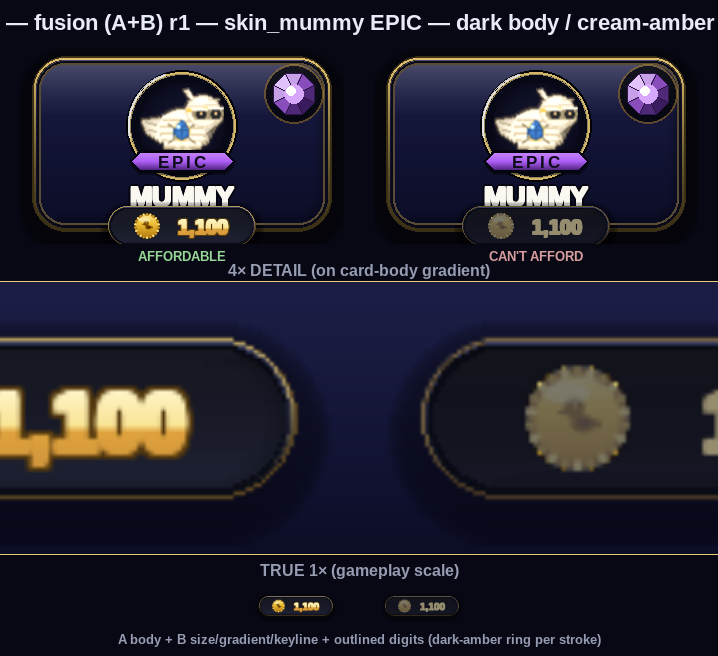
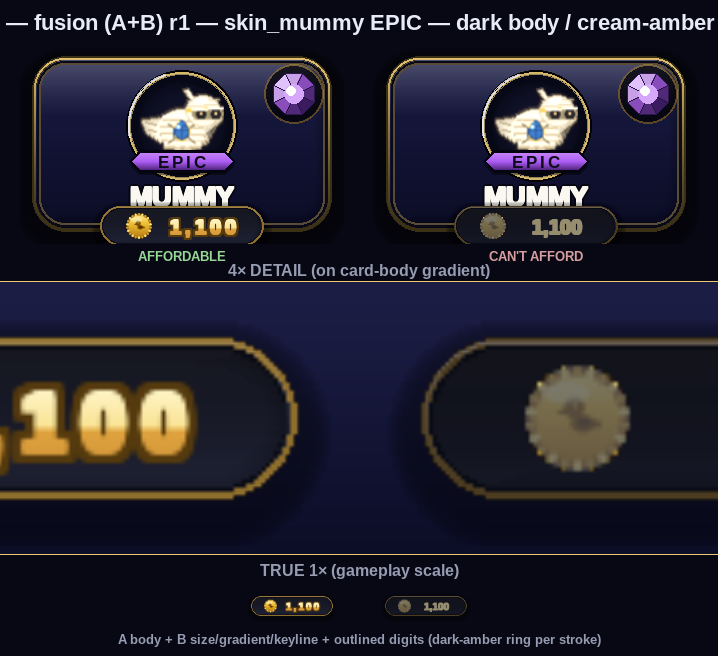
feat: fusion r1 tweaks — wider digit tracking, 2-ring outline, uniform bottom rim

diff --git a/tools/_store_card_v5_price_chip_r3_fusion_r1.py b/tools/_store_card_v5_price_chip_r3_fusion_r1.py
@@ -53,22 +53,26 @@ def dark_chip_body(surf, r, radius, stops, rim_dark, rim_bright_3tup,
 # Gradient identical to B: tight cream→amber seam mapped to glyph bounding rect
 NUM_STOPS = [(0.0, (255, 244, 196)), (0.48, (250, 228, 148)),
              (0.52, (224, 164, 62)),  (1.0, (210, 150, 60))]
-# Outline: dark warm amber — darker than numerals, slightly warmer than body;
-# creates a visible perimeter ring around each digit stroke.
+# Outline: dark warm amber — darker than numerals, slightly warmer than body
 OUTLINE_COLOR = (85, 58, 14)
+# Tracking: extra device-px gap inserted between each character pair
+TRACKING = sc.m(2)
 
 
 def _draw_numerals(surf, nx, cy, text, f):
-    """Render gradient numerals with a dark-amber outline ring at each glyph."""
-    mask = sc._stamp_bold(sc._glyph_base(text, f, 0), sc.m(1.0))
+    """Render gradient numerals with a 2-ring dark-amber outline at each glyph."""
+    mask = sc._stamp_bold(sc._glyph_base(text, f, TRACKING), sc.m(1.0))
     bb = mask.get_bounding_rect()
 
-    # outline pass: tint mask dark amber, blit at 8 neighbour offsets so every
-    # edge pixel of every digit gets a contrasting perimeter — no additive light.
+    # 2-ring outline: outer ±2px pass first, then inner ±1px pass on top so the
+    # combined ring is ~2 device px wide on every digit edge — no additive light.
     outline = mask.copy()
     tint_s = pygame.Surface(mask.get_size(), pygame.SRCALPHA)
     tint_s.fill((*OUTLINE_COLOR, 255))
     outline.blit(tint_s, (0, 0), special_flags=pygame.BLEND_RGBA_MULT)
+    for ox, oy in [(-2, 0), (2, 0), (0, -2), (0, 2),
+                   (-2, -2), (2, -2), (-2, 2), (2, 2)]:
+        surf.blit(outline, outline.get_rect(center=(nx + ox, cy + oy)))
     for ox, oy in [(-1, 0), (1, 0), (0, -1), (0, 1),
                    (-1, -1), (1, -1), (-1, 1), (1, 1)]:
         surf.blit(outline, outline.get_rect(center=(nx + ox, cy + oy)))
@@ -87,7 +91,7 @@ def price_chip_fusion(surf, cx, cy, text, h, affordable=True):
     pad = sc.m(13)
     gapc = sc.m(8)
     f = sc.font(h * 0.50 / sc.SS)                       # B's default size
-    nw = sc._glyph_base(text, f, 0).get_width() + sc.m(2)
+    nw = sc._glyph_base(text, f, TRACKING).get_width() + sc.m(2)
     w = pad + coin_d + gapc + nw + pad
     rad = h // 2
     r = pygame.Rect(cx - w // 2, cy - h // 2, w, h)
@@ -99,11 +103,13 @@ def price_chip_fusion(surf, cx, cy, text, h, affordable=True):
 
     dark_chip_body(surf, r, rad, stops, (8, 10, 20), (60, 65, 100),
                    gloss=12, gamma=1.04)
-    # B's warm keyline over the standard bevel — thin struck edge on the pill rim
-    if affordable:
-        sc.bevel_rim(surf, r, rad, (120, 90, 30, 180), (255, 230, 150, 150), w=1)
-    else:
-        sc.bevel_rim(surf, r, rad, (120, 90, 30, 120), (255, 230, 150, 80), w=1)
+    # Uniform warm gold ring drawn via SRCALPHA so it wraps the bottom arc equally
+    # — sc.bevel_rim fades to zero at the bottom arc, leaving it invisible.
+    rim_a = 160 if affordable else 80
+    rim_surf = pygame.Surface((r.w, r.h), pygame.SRCALPHA)
+    pygame.draw.rect(rim_surf, (220, 170, 60, rim_a), rim_surf.get_rect(),
+                     width=max(1, sc.m(1)), border_radius=rad)
+    surf.blit(rim_surf, r.topleft)
 
     ccx = r.x + pad + coin_d // 2
     sc.coin_glyph(surf, ccx, cy, coin_d // 2)
